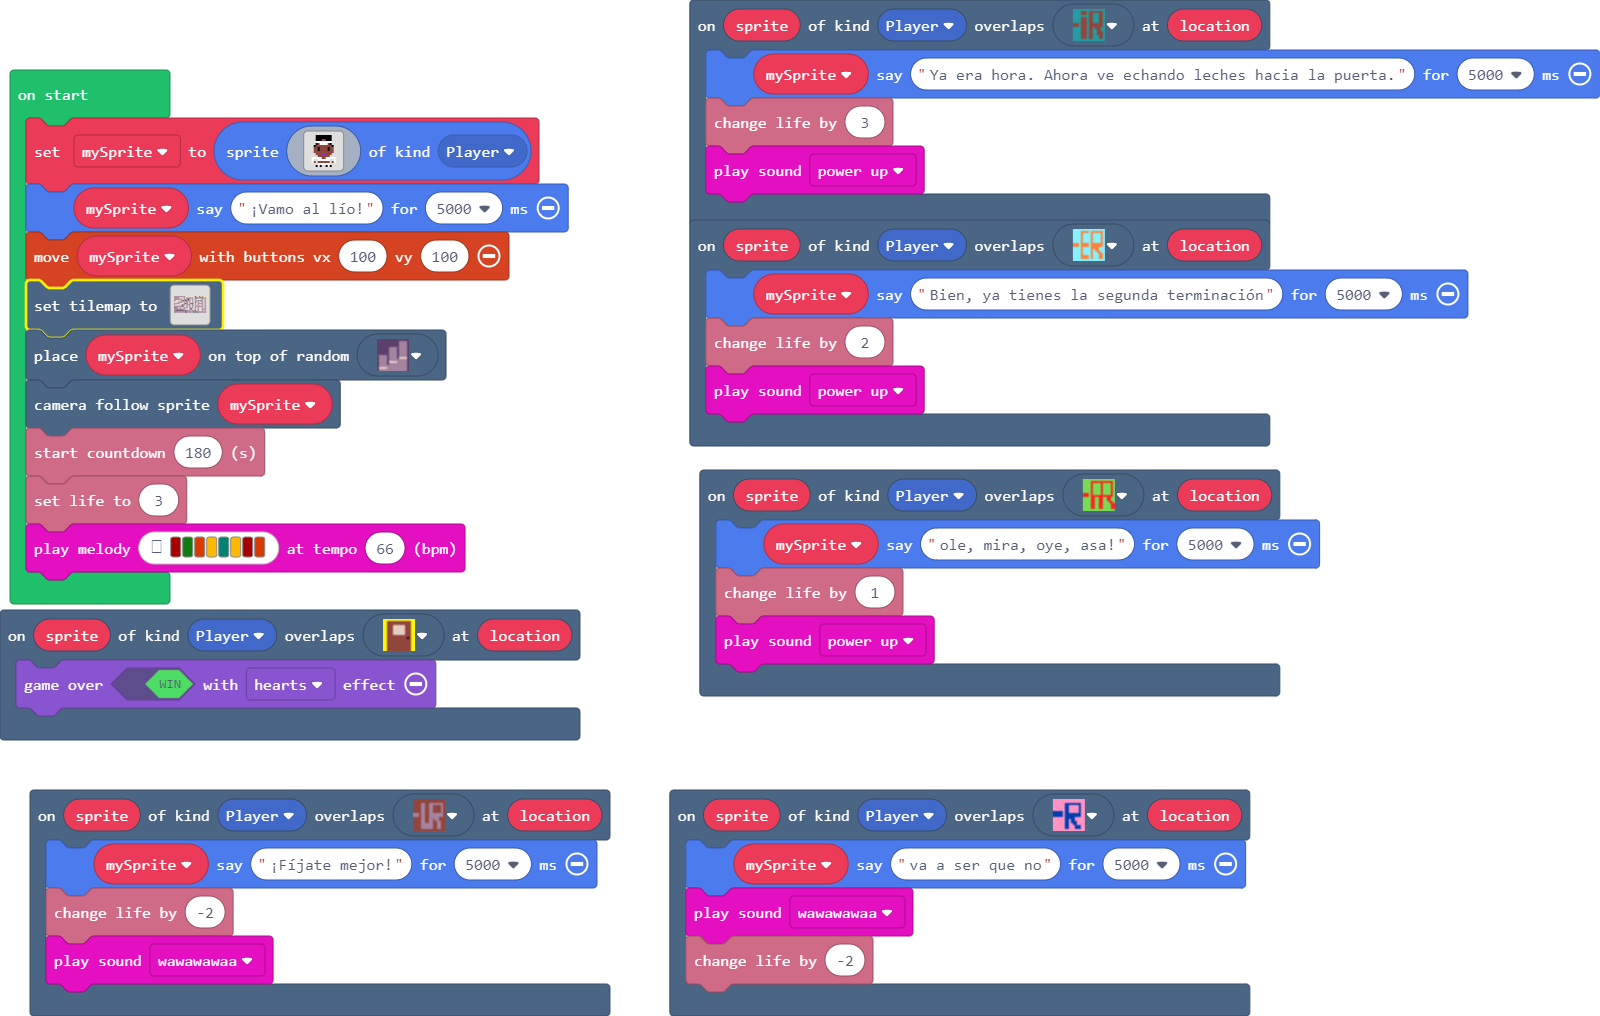
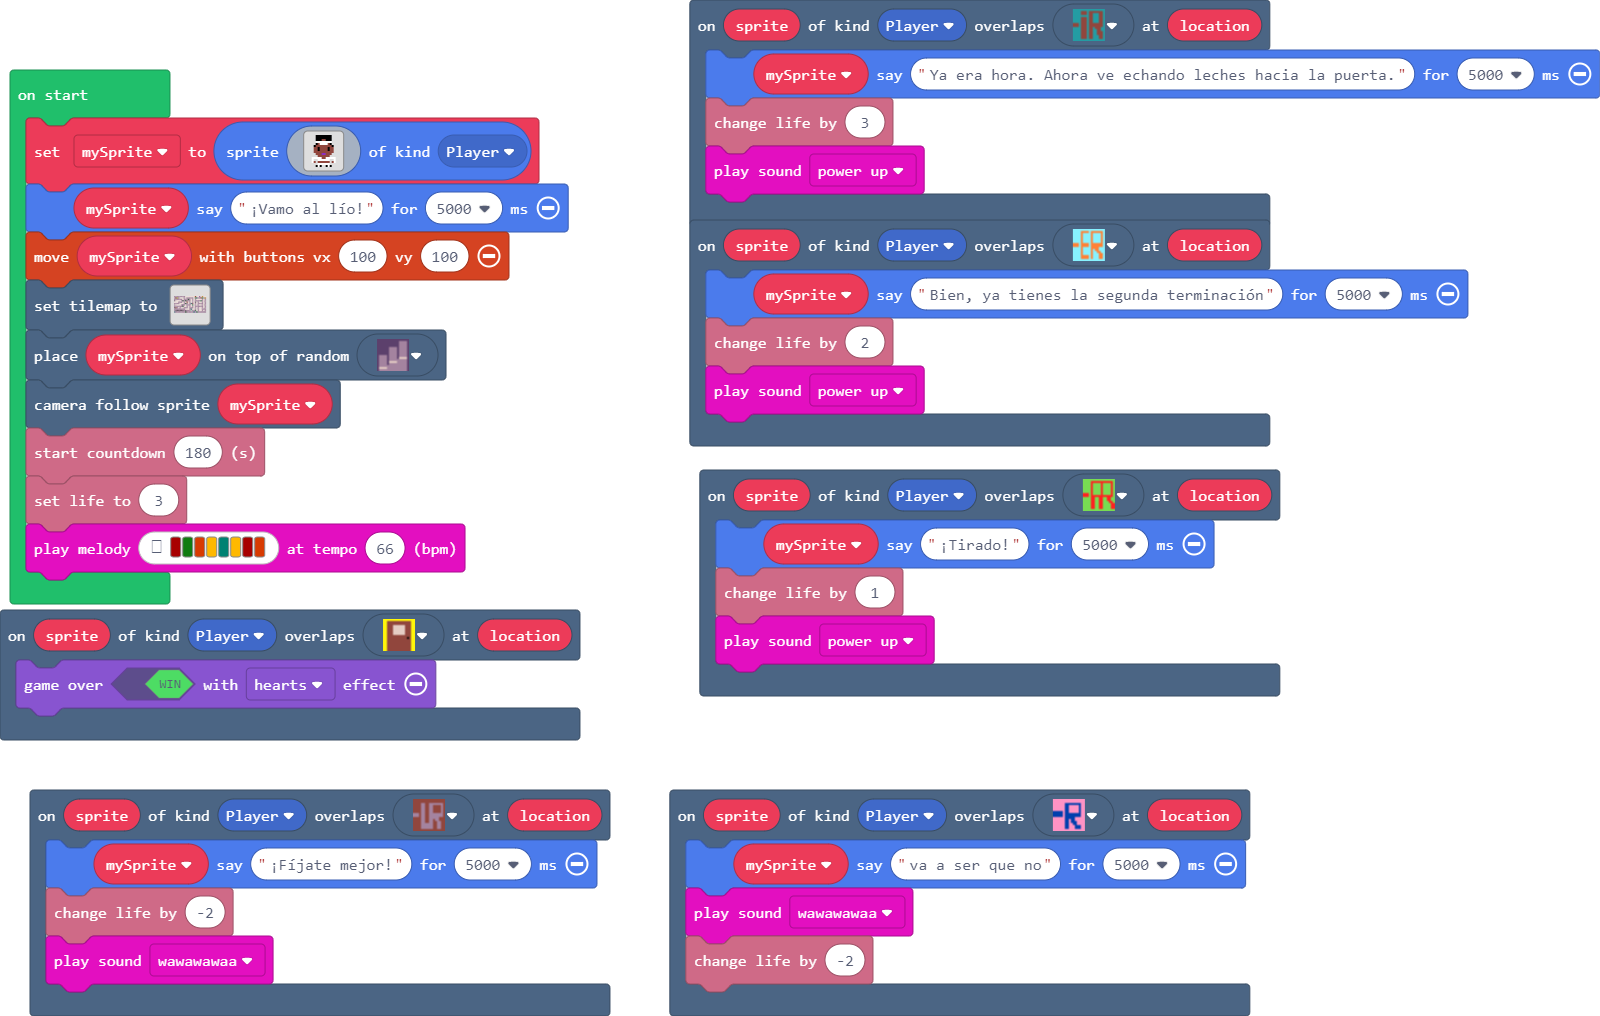
Update main.blocks, main.ts

Changed region(s): [[0.5938, 0.4882, 0.8438, 0.5797], [0.0, 0.2746, 0.0625, 0.3051], [0.125, 0.2746, 0.1562, 0.3051]]

diff --git a/main.ts b/main.ts
@@ -182,7 +182,7 @@ scene.onOverlapTile(SpriteKind.Player, myTiles.tile6, function (sprite, location
     music.powerUp.play()
 })
 scene.onOverlapTile(SpriteKind.Player, myTiles.tile4, function (sprite, location) {
-    mySprite.say("ole, mira, oye, asa!", 5000)
+    mySprite.say("¡Tirado!", 5000)
     info.changeLifeBy(1)
     music.powerUp.play()
 })
